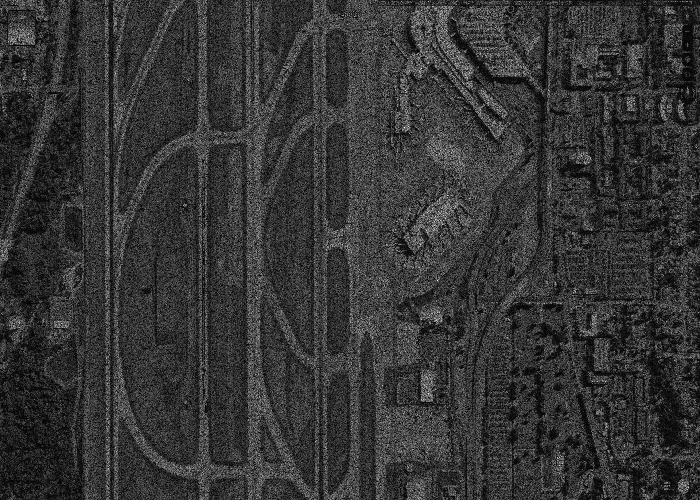
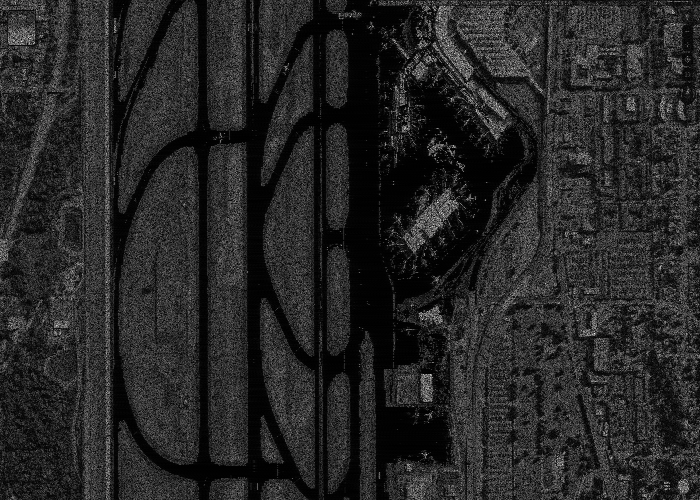
改回以前的

diff --git a/week5/SAR.py b/week5/SAR.py
@@ -7,47 +7,24 @@ from collections import deque
 import os
 from cffi import FFI
 
-#def region_growing(img, seed, threshold):
-  ## 创建一个和输入图像同样大小的布尔数组，用于标记访问过的像素
-  #visited = np.zeros_like(img, dtype=np.bool_)
-  #dx = [-1, 0, 1, 0]
-  #dy = [0, 1, 0, -1]
-  #queue = deque([seed])
-  #seed_value = int(img[seed])
-  #while queue:
-    #x, y = queue.popleft()
-    #if not visited[y, x] and abs(int(img[y, x]) - seed_value) <= threshold:
-      #visited[y, x] = True
-      #img[y, x] = 0
-      #for i in range(4):
-        #nx, ny = x + dx[i], y + dy[i]
-        #if 0 <= nx < img.shape[1] and 0 <= ny < img.shape[0]:
-          #queue.append((nx, ny))
-  #return img
 def region_growing(img, seed, threshold):
-  ffi = FFI()
+  # 创建一个和输入图像同样大小的布尔数组，用于标记访问过的像素
+  visited = np.zeros_like(img, dtype=np.bool_)
+  dx = [-1, 0, 1, 0]
+  dy = [0, 1, 0, -1]
+  queue = deque([seed])
+  seed_value = int(img[seed])
+  while queue:
+    x, y = queue.popleft()
+    if not visited[y, x] and abs(int(img[y, x]) - seed_value) <= threshold:
+      visited[y, x] = True
+      img[y, x] = 0
+      for i in range(4):
+        nx, ny = x + dx[i], y + dy[i]
+        if 0 <= nx < img.shape[1] and 0 <= ny < img.shape[0]:
+          queue.append((nx, ny))
+  return img
 
-  # 定义C函数接口
-  ffi.cdef("""
-  void region_growing(unsigned char* img, int rows, int cols, int seedX, int seedY, unsigned char threshold);
-  """)
-
-  # 加载共享库
-  C = ffi.dlopen("./region_growing.so")
-
-  # 准备调用C函数的参数
-  image = img # 假设这是一个NumPy数组
-  rows, cols = image.shape
-  threshold = 10  # 示例阈值
-
-  # 将NumPy数组转换为C兼容的数据
-  image_c = ffi.cast("unsigned char *", image.ctypes.data)
-
-# 调用C函数
-  C.region_growing(image_c, rows, cols, seed[0], seed[1], threshold) # type: ignore
-
-  # 注意：调用完毕后，image将会被直接修改
-  return image
 # 加载图像
 def low_pass_filter(image, cutoff):
     # Perform the Fourier transform
